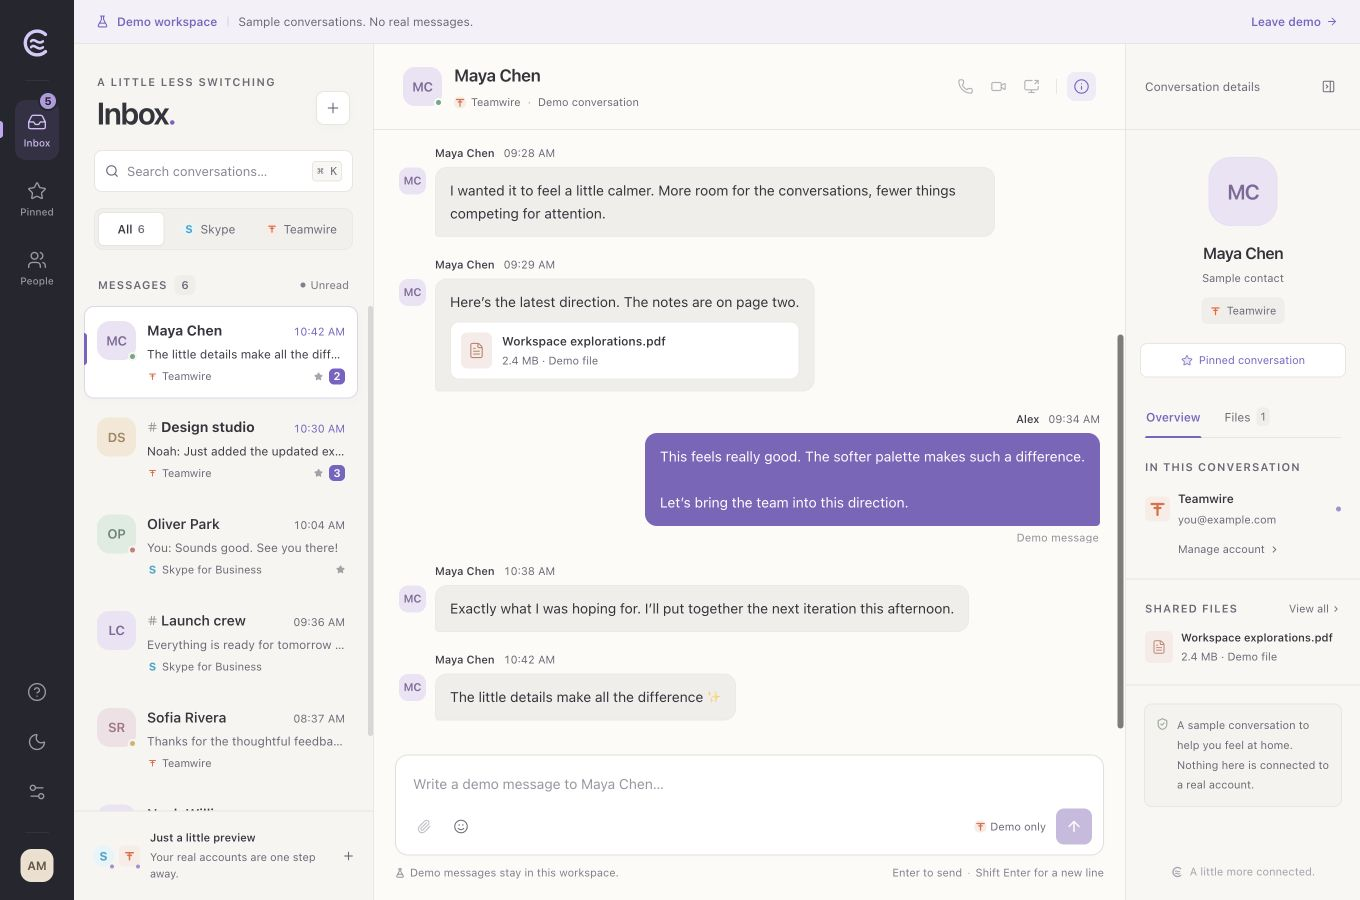
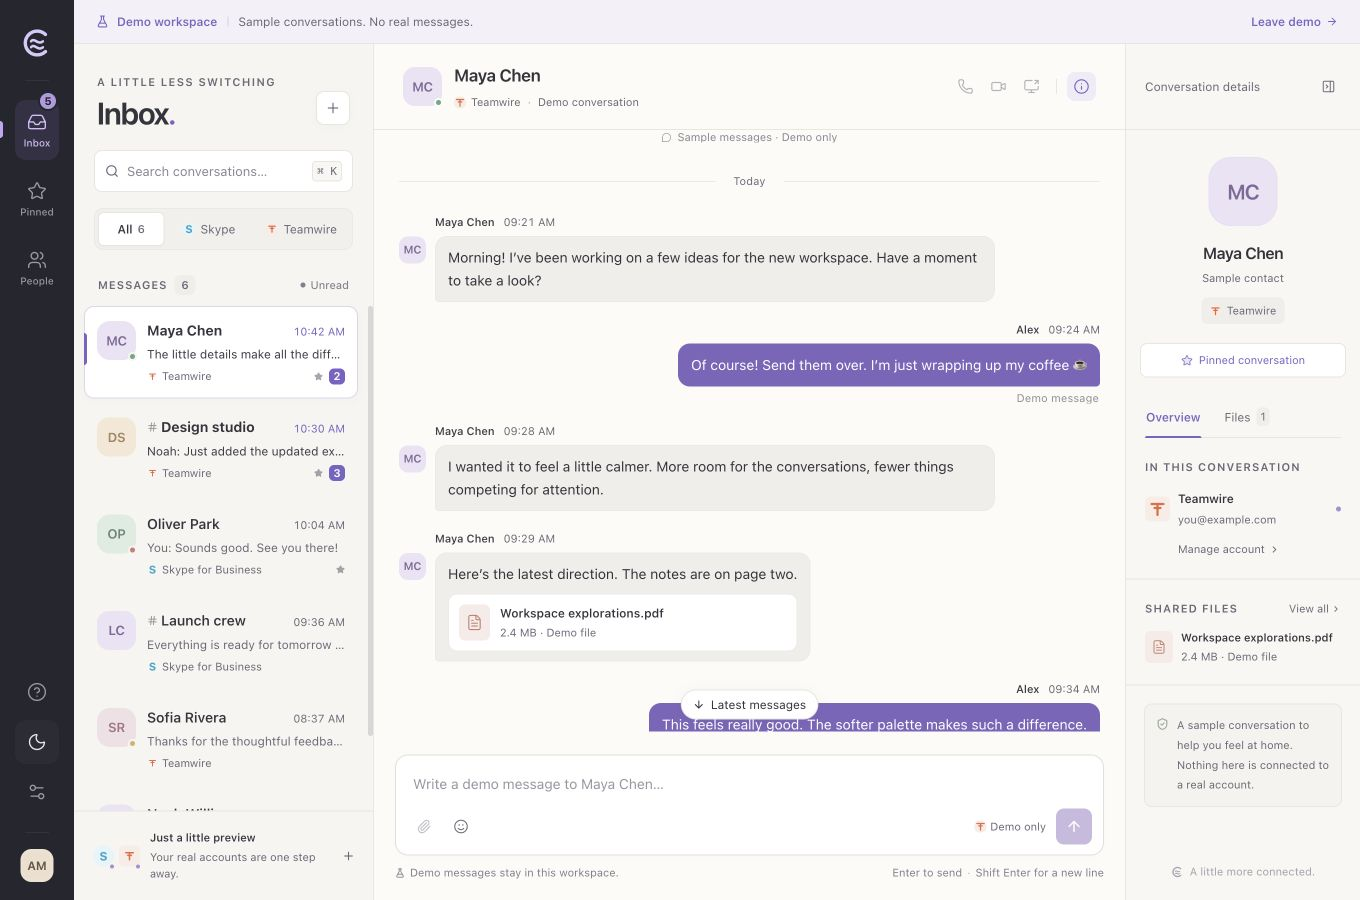
Tighten chat bubble padding across window sizes

diff --git a/src/styles.css b/src/styles.css
@@ -193,7 +193,7 @@ button { -webkit-app-region: no-drag; }
 .chat-message-header strong { color: color-mix(in srgb, var(--foreground) 80%, var(--muted-foreground)); font-weight: 550; font-size: 11px; }
 .chat-message-header time { font-size: 11px; opacity: 1; font-variant-numeric: tabular-nums; }
 .chat-bubble { max-width: 100%; min-width: 0; }
-.chat-bubble-content { padding: 11px 14px; border-radius: 12px 12px 12px 4px; background: var(--secondary) !important; color: var(--foreground) !important; border: 1px solid color-mix(in srgb, var(--border) 50%, transparent); font-size: 14px; line-height: 1.65; }
+.chat-bubble-content { padding: 9px 12px; border-radius: 12px 12px 12px 4px; background: var(--secondary) !important; color: var(--foreground) !important; border: 1px solid color-mix(in srgb, var(--border) 50%, transparent); font-size: 14px; line-height: 1.65; }
 .chat-bubble-content > p { margin: 0; white-space: pre-wrap; overflow-wrap: anywhere; }
 .outgoing-message .chat-message-content { align-items: flex-end; }
 .outgoing-message .chat-message-header { justify-content: flex-end; }
@@ -509,11 +509,11 @@ button { -webkit-app-region: no-drag; }
 @keyframes spinner { to { transform: rotate(360deg); } }
 @keyframes typing-pulse { 0%, 65%, 100% { opacity: .3; transform: translateY(0); } 35% { opacity: 1; transform: translateY(-2px); } }
 
-@media (min-width: 1600px) { .inbox-panel { width: 344px; flex-basis: 344px; } .conversation-details { width: 286px; flex-basis: 286px; } .transcript-content { padding-left: 50px; padding-right: 50px; } .composer-area { padding-left: 45px; padding-right: 45px; padding-bottom: 24px; } .chat-message-content { max-width: min(82%, 660px); } .chat-bubble-content { font-size: 14px; padding: 13px 16px; } .chat-message-header strong { font-size: 12px; } .conversation-heading { padding-left: 45px; padding-right: 45px; } }
+@media (min-width: 1600px) { .inbox-panel { width: 344px; flex-basis: 344px; } .conversation-details { width: 286px; flex-basis: 286px; } .transcript-content { padding-left: 50px; padding-right: 50px; } .composer-area { padding-left: 45px; padding-right: 45px; padding-bottom: 24px; } .chat-message-content { max-width: min(82%, 660px); } .chat-bubble-content { font-size: 14px; padding: 11px 14px; } .chat-message-header strong { font-size: 12px; } .conversation-heading { padding-left: 45px; padding-right: 45px; } }
 @media (max-width: 1240px) { .inbox-panel { width: 290px; flex-basis: 290px; } .conversation-details { position: static; width: 224px; flex: 0 0 224px; box-shadow: none; } .conversation-heading { padding: 0 24px; } .transcript-content { padding-left: 27px; padding-right: 27px; } .composer-footnote > span:last-child { font-size: 11px; } }
 @media (min-width: 1241px) and (max-width: 1390px) { .inbox-panel { width: 300px; flex-basis: 300px; } .conversation-details { width: 235px; flex-basis: 235px; } .transcript-content { padding-left: 25px; padding-right: 25px; } .composer-area { padding-left: 21px; padding-right: 21px; } .format-hint { display: none; } .composer-divider { display: none; } .composer-footnote > span:last-child { font-size: 11px; } }
 @media (max-width: 980px) { .app-rail { width: 62px; flex-basis: 62px; } .rail-active-mark { left: -9px; } .inbox-panel { width: 267px; flex-basis: 267px; } .inbox-heading { padding-left: 21px; padding-right: 19px; } .inbox-heading .eyebrow { font-size: 11px; } .workspace-topbar { padding-left: 18px; padding-right: 17px; } .workspace-label > span:last-child:not(.workspace-monogram) { display: none; } .topbar-divider { display: none; } .conversation-heading { padding: 0 20px; } .conversation-actions { gap: 1px; padding-left: 4px; } .conversation-heading-title > div { font-size: 11px; gap: 3px; } .conversation-actions .toolbar-divider { margin: 0 3px; } .transcript-content { padding-left: 22px; padding-right: 22px; } .chat-message-content { max-width: 89%; } .composer-area { padding: 0 20px 18px; } .format-hint, .composer-divider { display: none; } .composer-footnote > span:last-child { display: none; } .welcome-promises { gap: 14px; font-size: 11px; } .welcome-screen h2 { font-size: 34px; } .inbox-footer { padding-left: 14px; padding-right: 14px; gap: 7px; } .inbox-footer > div:nth-child(2) > span { font-size: 11px; } .conversation-row { gap: 9px; padding-left: 10px; padding-right: 10px; } .conversation-row .person-avatar { width: 34px; height: 34px; min-width: 34px; border-radius: 11px; font-size: 12px; } .conversation-row time { font-size: 11px; } }
-@media (max-width: 760px) { .app-rail { width: 56px; flex-basis: 56px; padding-top: 14px; } .app-logo svg { width: 30px; height: 30px; } .rail-button { width: 38px; height: 40px; } .rail-button svg { width: 19px; height: 19px; } .rail-active-mark { left: -9px; } .workspace-topbar { height: 36px; min-height: 36px; padding: 0 14px; } .workspace-label strong { font-size: 11px; } .workspace-status > span { display: none; } .workspace-status > button { font-size: 11px; margin-left: 0; } .inbox-panel { display: none; width: 100%; flex-basis: 100%; } .has-conversation.show-mobile-list .inbox-panel { display: flex; } .has-conversation.show-mobile-list .conversation-panel { display: none; } .messenger-app:not(.has-conversation).show-mobile-list .inbox-panel { display: flex; } .messenger-app:not(.has-conversation).show-mobile-list .conversation-panel { display: none; } .conversation-heading { height: 76px; flex-basis: 76px; padding: 0 13px; gap: 9px; } .conversation-heading > .person-avatar { width: 33px; min-width: 33px; height: 33px; font-size: 11px; border-radius: 11px; } .conversation-heading-title h2 { font-size: 13px; margin-bottom: 5px; } .conversation-heading-title > div { font-size: 11px; } .conversation-heading-title > div > span:last-child, .conversation-heading-title .text-dot { display: none; } .conversation-actions > button:first-child, .conversation-actions > button:nth-child(2), .conversation-actions .toolbar-divider { display: none; } .mobile-back { display: inline-flex; width: 24px; } .mobile-back svg { width: 16px; height: 16px; } .transcript-content { padding: 18px 15px; gap: 19px; } .chat-bubble-content { padding: 10px 12px; font-size: 14px; } .chat-message-content { max-width: 90%; } .message-person { width: 22px; min-width: 22px; height: 22px; border-radius: 7px; font-size: 11px; } .composer-area { padding: 0 12px 13px; } .composer textarea { font-size: 13px; padding-left: 13px; padding-right: 13px; } .composer-footnote { font-size: 11px; margin-top: 7px; } .composer-footnote > span:first-child { max-width: 100%; } .composer-toolbar { padding-left: 7px; padding-right: 9px; } .conversation-details { width: min(280px, calc(100% - 20px)); } .details-heading { height: 76px; flex-basis: 76px; } .welcome-screen { padding: 25px 22px 75px; } .welcome-orbit { transform: scale(.9); margin-bottom: 10px; width: 270px; } .welcome-screen h2 { font-size: 32px; letter-spacing: -1.3px; } .welcome-screen > p { font-size: 13px; max-width: 260px; } .welcome-screen > .eyebrow { font-size: 11px; } .welcome-promises { flex-wrap: wrap; gap: 13px; font-size: 11px; padding-top: 29px; } .welcome-bottom { font-size: 11px; gap: 8px; } .explore-demo { font-size: 11px; gap: 4px; } .settings-dialog { width: calc(100% - 24px); } .settings-titlebar { height: 80px; padding: 0 20px; } .settings-titlebar [data-slot=dialog-title] { font-size: 20px; } .settings-body { display: flex; flex-direction: column; height: min(650px, calc(92dvh - 80px)); } .settings-nav { flex-direction: row; padding: 9px 13px; border-right: 0; border-bottom: 1px solid var(--border); gap: 8px; } .settings-nav > button { font-size: 12px; padding: 8px 10px; } .settings-nav-chevron, .settings-nav-footer { display: none; } .settings-section { padding: 23px 19px; } .section-heading { gap: 6px; } .section-heading h2 { font-size: 16px; } .section-heading p { font-size: 11px; } .provider-chooser > button { font-size: 11px; padding: 10px 8px; } .new-chat-dialog { padding: 23px 20px; } }
+@media (max-width: 760px) { .app-rail { width: 56px; flex-basis: 56px; padding-top: 14px; } .app-logo svg { width: 30px; height: 30px; } .rail-button { width: 38px; height: 40px; } .rail-button svg { width: 19px; height: 19px; } .rail-active-mark { left: -9px; } .workspace-topbar { height: 36px; min-height: 36px; padding: 0 14px; } .workspace-label strong { font-size: 11px; } .workspace-status > span { display: none; } .workspace-status > button { font-size: 11px; margin-left: 0; } .inbox-panel { display: none; width: 100%; flex-basis: 100%; } .has-conversation.show-mobile-list .inbox-panel { display: flex; } .has-conversation.show-mobile-list .conversation-panel { display: none; } .messenger-app:not(.has-conversation).show-mobile-list .inbox-panel { display: flex; } .messenger-app:not(.has-conversation).show-mobile-list .conversation-panel { display: none; } .conversation-heading { height: 76px; flex-basis: 76px; padding: 0 13px; gap: 9px; } .conversation-heading > .person-avatar { width: 33px; min-width: 33px; height: 33px; font-size: 11px; border-radius: 11px; } .conversation-heading-title h2 { font-size: 13px; margin-bottom: 5px; } .conversation-heading-title > div { font-size: 11px; } .conversation-heading-title > div > span:last-child, .conversation-heading-title .text-dot { display: none; } .conversation-actions > button:first-child, .conversation-actions > button:nth-child(2), .conversation-actions .toolbar-divider { display: none; } .mobile-back { display: inline-flex; width: 24px; } .mobile-back svg { width: 16px; height: 16px; } .transcript-content { padding: 18px 15px; gap: 19px; } .chat-bubble-content { padding: 8px 10px; font-size: 14px; } .chat-message-content { max-width: 90%; } .message-person { width: 22px; min-width: 22px; height: 22px; border-radius: 7px; font-size: 11px; } .composer-area { padding: 0 12px 13px; } .composer textarea { font-size: 13px; padding-left: 13px; padding-right: 13px; } .composer-footnote { font-size: 11px; margin-top: 7px; } .composer-footnote > span:first-child { max-width: 100%; } .composer-toolbar { padding-left: 7px; padding-right: 9px; } .conversation-details { width: min(280px, calc(100% - 20px)); } .details-heading { height: 76px; flex-basis: 76px; } .welcome-screen { padding: 25px 22px 75px; } .welcome-orbit { transform: scale(.9); margin-bottom: 10px; width: 270px; } .welcome-screen h2 { font-size: 32px; letter-spacing: -1.3px; } .welcome-screen > p { font-size: 13px; max-width: 260px; } .welcome-screen > .eyebrow { font-size: 11px; } .welcome-promises { flex-wrap: wrap; gap: 13px; font-size: 11px; padding-top: 29px; } .welcome-bottom { font-size: 11px; gap: 8px; } .explore-demo { font-size: 11px; gap: 4px; } .settings-dialog { width: calc(100% - 24px); } .settings-titlebar { height: 80px; padding: 0 20px; } .settings-titlebar [data-slot=dialog-title] { font-size: 20px; } .settings-body { display: flex; flex-direction: column; height: min(650px, calc(92dvh - 80px)); } .settings-nav { flex-direction: row; padding: 9px 13px; border-right: 0; border-bottom: 1px solid var(--border); gap: 8px; } .settings-nav > button { font-size: 12px; padding: 8px 10px; } .settings-nav-chevron, .settings-nav-footer { display: none; } .settings-section { padding: 23px 19px; } .section-heading { gap: 6px; } .section-heading h2 { font-size: 16px; } .section-heading p { font-size: 11px; } .provider-chooser > button { font-size: 11px; padding: 10px 8px; } .new-chat-dialog { padding: 23px 20px; } }
 @media (max-height: 700px) and (min-width: 761px) { .inbox-heading { padding-top: 24px; padding-bottom: 18px; } .list-section-heading { padding-top: 19px; } .conversation-row { padding-top: 12px; padding-bottom: 11px; } .welcome-orbit { height: 145px; transform: scale(.85); margin-bottom: 10px; } .welcome-screen h2 { font-size: 35px; } .welcome-screen > p { margin-top: 16px; } .welcome-promises { padding-top: 25px; } .details-profile { padding-top: 22px; padding-bottom: 15px; } .profile-avatar { width: 58px; min-width: 58px; height: 58px; border-radius: 18px; font-size: 18px; } .details-profile h3 { margin-top: 11px; } .pin-conversation { margin-top: 14px; } }
 @media (prefers-reduced-motion: reduce) { *, *::before, *::after { animation-duration: .01ms !important; transition-duration: .01ms !important; scroll-behavior: auto !important; } }
 
